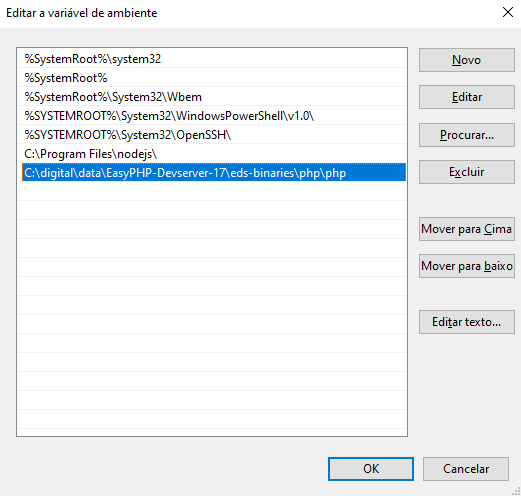
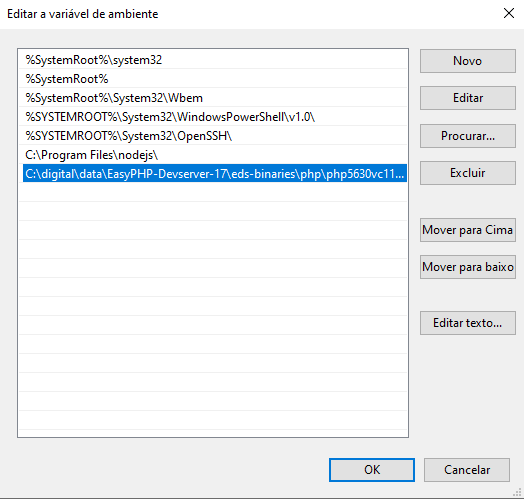
Added instructions 'Config IP'

diff --git a/src/components/sections/FeaturesSplit.js b/src/components/sections/FeaturesSplit.js
@@ -275,7 +275,7 @@ const FeaturesSplit = ({
                   - Na tela que abrir, clique no botão "<strong>Variáveis de Ambiente</strong>, em seguida vai abrir outra tela, no menu "<strong>Variáveis do sistema</strong>", procure pela variável "<strong>Path</strong>", selecionea e clique em editar;
                 </p>
                 <p className="m-0">
-                  - Na tela que abrir, no menu lateral clique no botão "<strong>Novo</strong>", no campo que abrir, cole este caminho "<strong>C:\digital\data\EasyPHP-Devserver-17\eds-binaries\php\php</strong>" (sem as aspas), e em seguida clique em "<strong>Ok</strong>" até fecha todas as telas.
+                  - Na tela que abrir, no menu lateral clique no botão "<strong>Novo</strong>", no campo que abrir, cole este caminho "<strong>C:\digital\data\EasyPHP-Devserver-17\eds-binaries\php\php5630vc11x86x190503172401</strong>" (sem as aspas), e em seguida clique em "<strong>Ok</strong>" até fecha todas as telas.
                 </p>
               </div>
               <div className={
@@ -286,6 +286,38 @@ const FeaturesSplit = ({
                 data-reveal-container=".split-item">
                 <Image
                   src={require('./../../assets/images/dependencias07.png')}
+                  alt="Features split 03"
+                  width={528}
+                  height={396} />
+              </div>
+            </div>
+
+            <div className="split-item">
+              <div className="split-item-content center-content-mobile reveal-from-left" data-reveal-container=".split-item">
+                <div className="text-xxs text-color-primary fw-600 tt-u mb-8">
+                  2.4 Ambiente
+                </div>
+                <h3 className="mt-0 mb-12">
+                  Configurando IP da API
+                </h3>
+                <p className="m-0">
+                  - Abra a pasta "<strong>C:\digital\data\EasyPHP-Devserver-17\eds-www\api\socket</strong>";
+                </p>
+                <p className="m-0">
+                  - Edita o arquivo "<strong>url_api_relatorios.json</strong>";
+                </p>
+                <p className="m-0">
+                  - Altere o endereço "<strong>127.0.0.1</strong>" para "<strong>IPv4</strong>" e salve o arquivo.
+                </p>
+              </div>
+              <div className={
+                classNames(
+                  'split-item-image center-content-mobile reveal-from-bottom',
+                  imageFill && 'split-item-image-fill'
+                )}
+                data-reveal-container=".split-item">
+                <Image
+                  src={require('./../../assets/images/dependencias08.png')}
                   alt="Features split 03"
                   width={528}
                   height={396} />

diff --git a/public/index.html b/public/index.html
@@ -1,5 +1,5 @@
 <!DOCTYPE html>
-<html lang="en">
+<html lang="pt-br">
 
 <head>
     <meta charset="utf-8" />
@@ -22,7 +22,7 @@
       work correctly both with client-side routing and a non-root public URL.
       Learn how to configure a non-root public URL by running `npm run build`.
     -->
-    <title>Open - React Template</title>
+    <title>SGA Portal - Doc</title>
 </head>
 
 <body class="has-animations">
